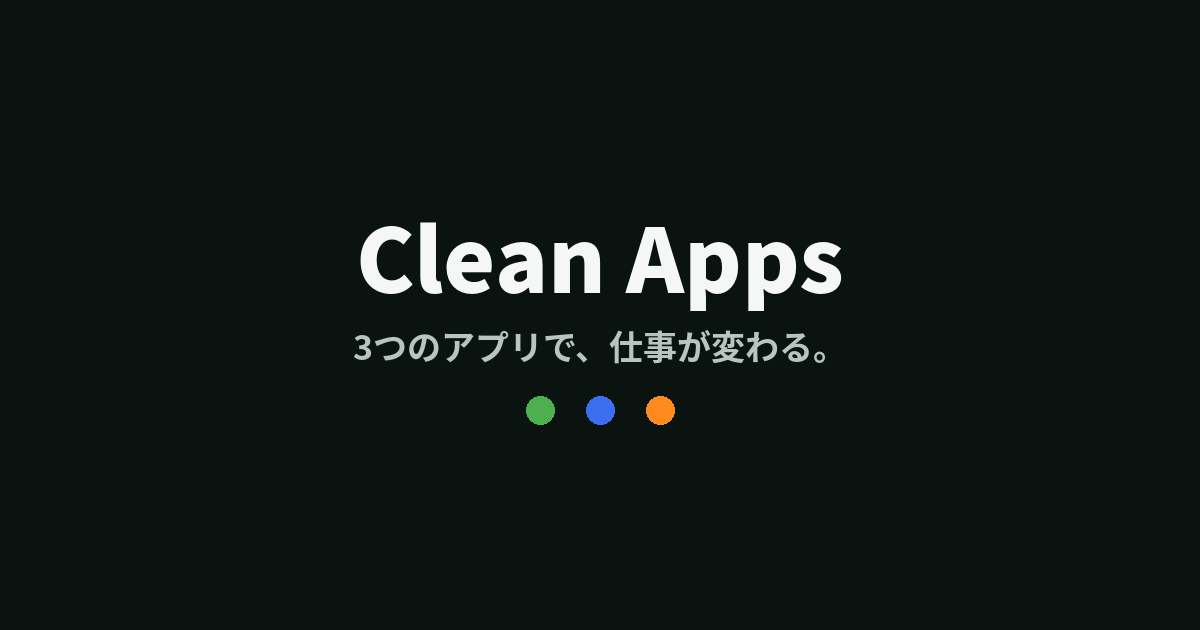
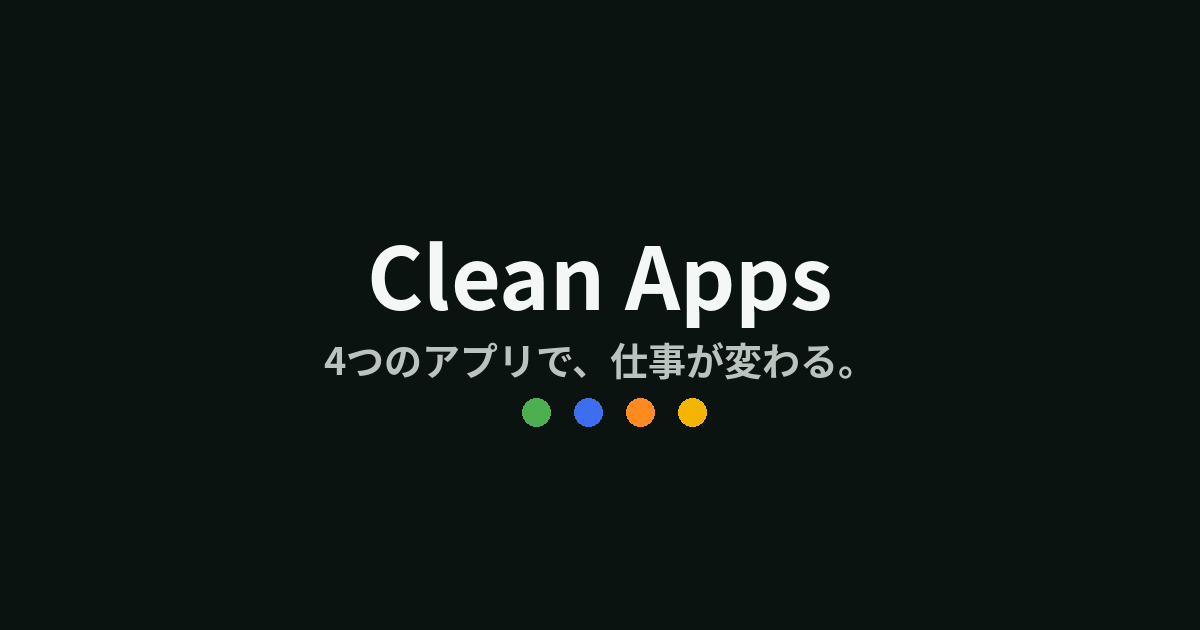
Add files via upload

Changed region(s): [[0.2775, 0.3317, 0.7092, 0.6032], [0.4317, 0.6333, 0.5858, 0.6937]]

diff --git a/index.html b/index.html
@@ -3,15 +3,15 @@
 <head>
 <meta charset="UTF-8" />
 <meta name="viewport" content="width=device-width, initial-scale=1, viewport-fit=cover" />
-<title>Clean Apps｜3つのアプリで、仕事が変わる。</title>
-<meta name="description" content="Clean Appsは「請求書」「確定申告」「現場情報」を、それぞれシンプルに、無料で使えるWebアプリシリーズです。登録不要・スマホで完結。小学5年生でも使えるシンプルさを目指しています。" />
+<title>Clean Apps｜4つのアプリで、仕事が変わる。</title>
+<meta name="description" content="Clean Appsは「請求書」「確定申告」「現場情報」「給料計算」を、それぞれシンプルに、無料で使えるWebアプリシリーズです。登録不要・スマホで完結。小学5年生でも迷わず使える仕事アプリを目指しています。" />
 <link rel="canonical" href="https://cleanbillapp.github.io/CleanApps/" />
 
 <!-- OGP -->
 <meta property="og:type" content="website" />
 <meta property="og:site_name" content="Clean Apps" />
-<meta property="og:title" content="Clean Apps｜3つのアプリで、仕事が変わる。" />
-<meta property="og:description" content="CleanBill・CleanTax・CleanSite。仕事に必要な作業をシンプルにする、無料のWebアプリシリーズです。" />
+<meta property="og:title" content="Clean Apps｜4つのアプリで、仕事が変わる。" />
+<meta property="og:description" content="CleanBill・CleanTax・CleanSite・CleanPay。仕事に必要な作業をシンプルにする、無料のWebアプリシリーズです。" />
 <meta property="og:url" content="https://cleanbillapp.github.io/CleanApps/" />
 <meta property="og:image" content="https://cleanbillapp.github.io/CleanApps/assets/ogp.png" />
 <meta name="twitter:card" content="summary_large_image" />
@@ -63,7 +63,7 @@
   <!-- ファーストビュー -->
   <section class="hero" id="top">
     <div class="container">
-      <h1>3つのアプリで、<br />仕事が変わる。</h1>
+      <h1>4つのアプリで、<br />仕事が変わる。</h1>
       <p class="lead">シンプル・無料・使いやすい</p>
 
       <div class="app-grid">
@@ -102,6 +102,25 @@
           </span>
           <span class="app-name">CleanSite</span>
           <span class="app-copy">現場情報をかんたんに</span>
+        </a>
+
+        <a class="app-card" href="https://cleanbillapp.github.io/CleanPay/" target="_blank" rel="noopener">
+          <span class="app-icon" aria-hidden="true">
+            <svg viewBox="0 0 56 56" width="100%" height="100%">
+              <!-- CleanPay: minimal abacus, vertical-line emphasis -->
+              <rect x="9" y="9" width="38" height="4" rx="2" fill="#f4b400"/>
+              <rect x="16" y="11" width="3" height="36" rx="1.5" fill="#f4b400"/>
+              <rect x="26.5" y="11" width="3" height="36" rx="1.5" fill="#f4b400"/>
+              <rect x="37" y="11" width="3" height="36" rx="1.5" fill="#f4b400"/>
+              <path d="M13 20l4.5-4 4.5 4-4.5 4z" fill="#f4b400"/>
+              <path d="M23.5 30l4.5-4 4.5 4-4.5 4z" fill="#f4b400"/>
+              <path d="M34 20l4.5-4 4.5 4-4.5 4z" fill="#f4b400"/>
+              <path d="M13 38l4.5-4 4.5 4-4.5 4z" fill="#f4b400"/>
+              <path d="M34 38l4.5-4 4.5 4-4.5 4z" fill="#f4b400"/>
+            </svg>
+          </span>
+          <span class="app-name">CleanPay</span>
+          <span class="app-copy">給料計算をかんたんに</span>
         </a>
       </div>
 
@@ -170,6 +189,31 @@
             <span class="app-name">CleanSite</span>
             <span class="app-copy">現場情報をかんたんに</span>
             <span class="app-desc">現場や近くの駐車場、飲食店などをまとめて管理できます。</span>
+          </span>
+          <svg class="go-arrow" viewBox="0 0 24 24" fill="none" aria-hidden="true">
+            <path d="M9 6l6 6-6 6" stroke="currentColor" stroke-width="2" stroke-linecap="round" stroke-linejoin="round"/>
+          </svg>
+        </a>
+
+        <a class="app-row pay" href="https://cleanbillapp.github.io/CleanPay/" target="_blank" rel="noopener">
+          <span class="app-icon" aria-hidden="true">
+            <svg viewBox="0 0 56 56" width="100%" height="100%">
+              <!-- CleanPay: minimal abacus, vertical-line emphasis -->
+              <rect x="9" y="9" width="38" height="4" rx="2" fill="#f4b400"/>
+              <rect x="16" y="11" width="3" height="36" rx="1.5" fill="#f4b400"/>
+              <rect x="26.5" y="11" width="3" height="36" rx="1.5" fill="#f4b400"/>
+              <rect x="37" y="11" width="3" height="36" rx="1.5" fill="#f4b400"/>
+              <path d="M13 20l4.5-4 4.5 4-4.5 4z" fill="#f4b400"/>
+              <path d="M23.5 30l4.5-4 4.5 4-4.5 4z" fill="#f4b400"/>
+              <path d="M34 20l4.5-4 4.5 4-4.5 4z" fill="#f4b400"/>
+              <path d="M13 38l4.5-4 4.5 4-4.5 4z" fill="#f4b400"/>
+              <path d="M34 38l4.5-4 4.5 4-4.5 4z" fill="#f4b400"/>
+            </svg>
+          </span>
+          <span class="app-row-body">
+            <span class="app-name">CleanPay</span>
+            <span class="app-copy">給料計算をかんたんに</span>
+            <span class="app-desc">日当・歩合・時給のお給料を、かんたんに計算・記録できます。</span>
           </span>
           <svg class="go-arrow" viewBox="0 0 24 24" fill="none" aria-hidden="true">
             <path d="M9 6l6 6-6 6" stroke="currentColor" stroke-width="2" stroke-linecap="round" stroke-linejoin="round"/>

diff --git a/css/style.css b/css/style.css
@@ -1,7 +1,7 @@
 /* ==========================================================================
    Clean Apps 公式サイト — style.css
    デザイン基準: 添付画像②に忠実。ダーク背景・グリーン/ブルー/オレンジの
-   3アプリカラー・引き算のデザイン思想を維持すること。
+   4アプリカラー・引き算のデザイン思想を維持すること。
    ========================================================================== */
 
 :root {
@@ -21,6 +21,8 @@
   --tax-color-soft: rgba(61, 110, 240, 0.14);
   --site-color: #ff8a1f;
   --site-color-soft: rgba(255, 138, 31, 0.14);
+  --pay-color: #f4b400;
+  --pay-color-soft: rgba(244, 180, 0, 0.14);
 
   --accent-green: #4caf50;
 
@@ -286,13 +288,14 @@ button {
 
 .app-grid {
   display: grid;
-  grid-template-columns: repeat(3, 1fr);
+  grid-template-columns: repeat(2, minmax(0, 1fr));
   gap: 12px;
   margin: 0 0 32px;
 }
 
 @media (min-width: 640px) {
   .app-grid {
+    grid-template-columns: repeat(4, minmax(0, 1fr));
     gap: 20px;
   }
 }
@@ -474,6 +477,7 @@ section {
 .app-row.bill:hover { border-color: var(--bill-color); }
 .app-row.tax:hover { border-color: var(--tax-color); }
 .app-row.site:hover { border-color: var(--site-color); }
+.app-row.pay:hover { border-color: var(--pay-color); }
 
 /* --------------------------------------------------------------------- */
 /* Features section                                                         */

diff --git a/js/main.js b/js/main.js
@@ -52,7 +52,7 @@
   // 友達に教える（共有シート）
   var shareData = {
     title: 'Clean Apps',
-    text: 'Clean Apps｜3つのアプリで、仕事が変わる。シンプル・無料・使いやすい仕事アプリです。',
+    text: 'Clean Apps｜4つのアプリで、仕事が変わる。シンプル・無料・使いやすい仕事アプリです。',
     url: window.location.href
   };
 

diff --git a/README.md b/README.md
@@ -1,6 +1,6 @@
 # Clean Apps 公式サイト
 
-CleanBill / CleanTax / CleanSite の公式入口サイトです。
+CleanBill / CleanTax / CleanSite / CleanPay の公式入口サイトです。
 静的HTML/CSS/JSのみで構成されており、GitHub Pagesでそのまま公開できます。
 
 ## ファイル構成
@@ -37,6 +37,7 @@ clean-apps-site/
 - CleanBill: `https://cleanbillapp.github.io/PLOMPT/`
 - CleanTax: `https://cleanbillapp.github.io/CleanTax/`
 - CleanSite: `https://cleanbillapp.github.io/CleanSite/`
+- CleanPay: `https://cleanbillapp.github.io/CleanPay/`
 
 このサイトのリポジトリ名やユーザー名が異なる場合でも、CSSやJS、内部リンク（`terms.html`など）はすべて相対パスで記述しているため、リポジトリ名を変えても問題なく動作します。
 
@@ -55,14 +56,14 @@ clean-apps-site/
 
 | 変更したい内容 | 編集するファイル |
 |---|---|
-| メインコピー・サブコピー・3つのアプリの説明文 | `index.html`（`<section class="hero">` 付近） |
-| 各アプリへのリンク先URL | `index.html`内の `href="https://cleanbillapp.github.io/..."` の部分（3箇所ずつ、計6箇所） |
+| メインコピー・サブコピー・4つのアプリの説明文 | `index.html`（`<section class="hero">` 付近） |
+| 各アプリへのリンク先URL | `index.html`内の `href="https://cleanbillapp.github.io/..."` の部分（4箇所ずつ、計8箇所） |
 | 特徴セクションの5項目 | `index.html`（`<section class="section" id="features">` 付近） |
 | ブランドストーリー文章 | `index.html`（`<section class="section" id="about">` 付近） |
 | 色・余白などデザイン全般 | `css/style.css` 冒頭の `:root` 内の変数（色を変える場合はここだけでOK） |
 | 利用規約／プライバシーポリシー／免責事項の文面 | それぞれ `terms.html` / `privacy.html` / `disclaimer.html` |
 
-将来アプリを追加する場合は、`index.html`のファーストビュー内の `.app-grid`、アプリ一覧セクションの `.apps-list` にそれぞれカードを1つ追加する形になります（現時点では3つ固定で表示していますが、HTML/CSSの構造自体は4つ目以降を追加しやすい形にしてあります）。
+将来アプリを追加する場合は、`index.html`のファーストビュー内の `.app-grid`、アプリ一覧セクションの `.apps-list` にそれぞれカードを1つ追加する形になります（現在は4つを表示しています。今後の追加も同じ構造で対応できます）。
 
 ## 注意事項
 
